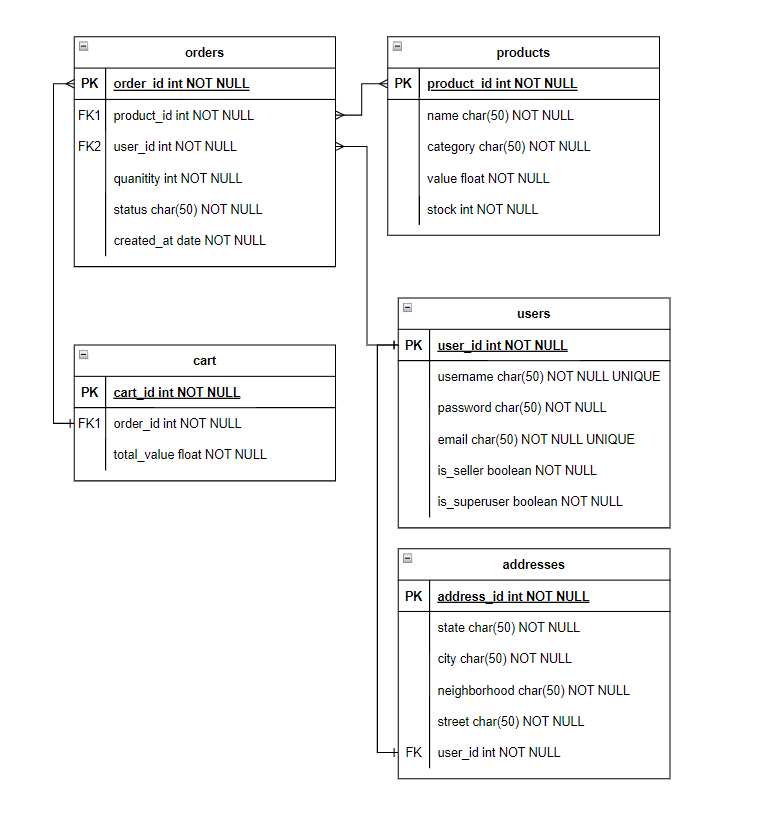
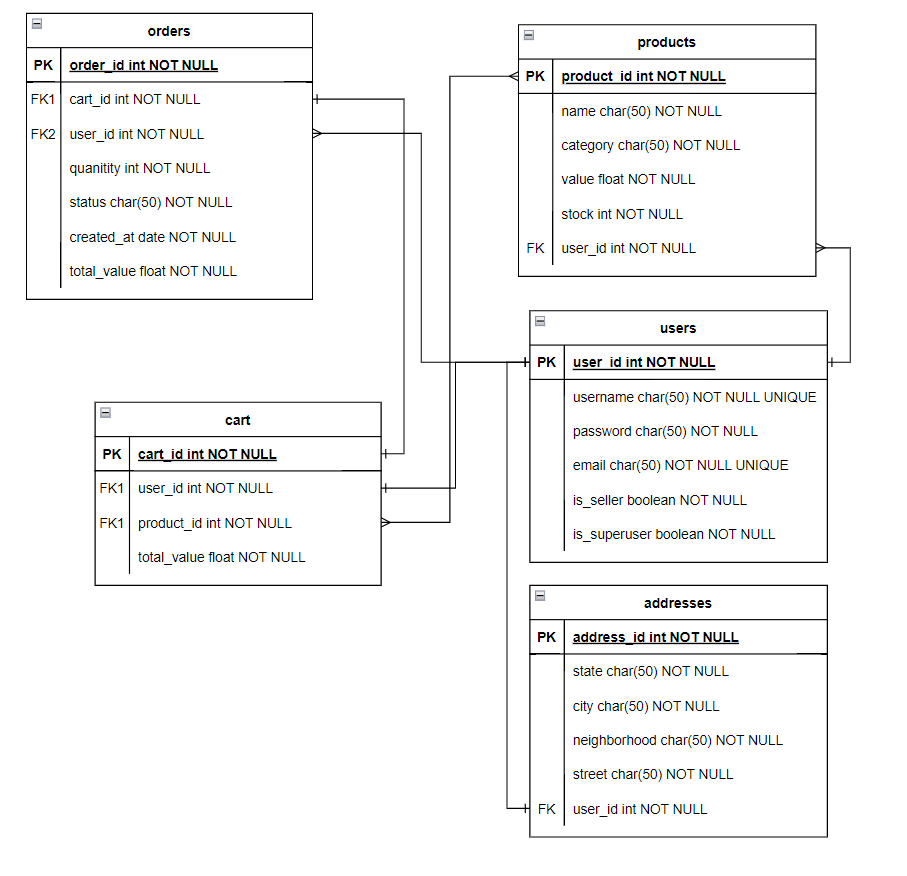
feat: change of DER and model order

Changed region(s): [[0.03, 0.0, 0.9308, 0.9639], [0.1201, 0.6325, 0.4204, 0.6928], [0.9008, 0.2711, 0.9308, 0.3012]]

diff --git a/orders/migrations/0001_initial.py b/orders/migrations/0001_initial.py
@@ -1,5 +1,6 @@
-# Generated by Django 4.2.3 on 2023-07-03 19:44
+# Generated by Django 4.2.3 on 2023-07-03 20:11
 
+from django.conf import settings
 from django.db import migrations, models
 import django.db.models.deletion
 
@@ -9,7 +10,8 @@ class Migration(migrations.Migration):
     initial = True
 
     dependencies = [
-        ('cart', '0001_initial'),
+        migrations.swappable_dependency(settings.AUTH_USER_MODEL),
+        ('cart', '0003_initial'),
     ]
 
     operations = [
@@ -19,8 +21,10 @@ class Migration(migrations.Migration):
                 ('id', models.BigAutoField(auto_created=True, primary_key=True, serialize=False, verbose_name='ID')),
                 ('quantity', models.IntegerField()),
                 ('status', models.CharField(choices=[('Pedido Realizado', 'Pedido Realizado'), ('Em Andamento', 'Em Andamento'), ('Entregue', 'Entregue')], default='Pedido Realizado', max_length=50)),
+                ('total_value', models.FloatField()),
                 ('created_at', models.DateField(auto_now_add=True)),
                 ('cart', models.OneToOneField(on_delete=django.db.models.deletion.CASCADE, related_name='cart', to='cart.cart')),
+                ('user', models.ForeignKey(on_delete=django.db.models.deletion.CASCADE, related_name='orders', to=settings.AUTH_USER_MODEL)),
             ],
         ),
     ]

diff --git a/orders/models.py b/orders/models.py
@@ -9,6 +9,7 @@ class Order(models.Model):
 
     quantity = models.IntegerField()
     status = models.CharField(max_length=50, choices=ExpectedStatus.choices, default=ExpectedStatus.PEDIDO_REALIZADO)
+    total_value = models.FloatField()
     created_at = models.DateField(auto_now_add=True)
 
     user = models.ForeignKey(
